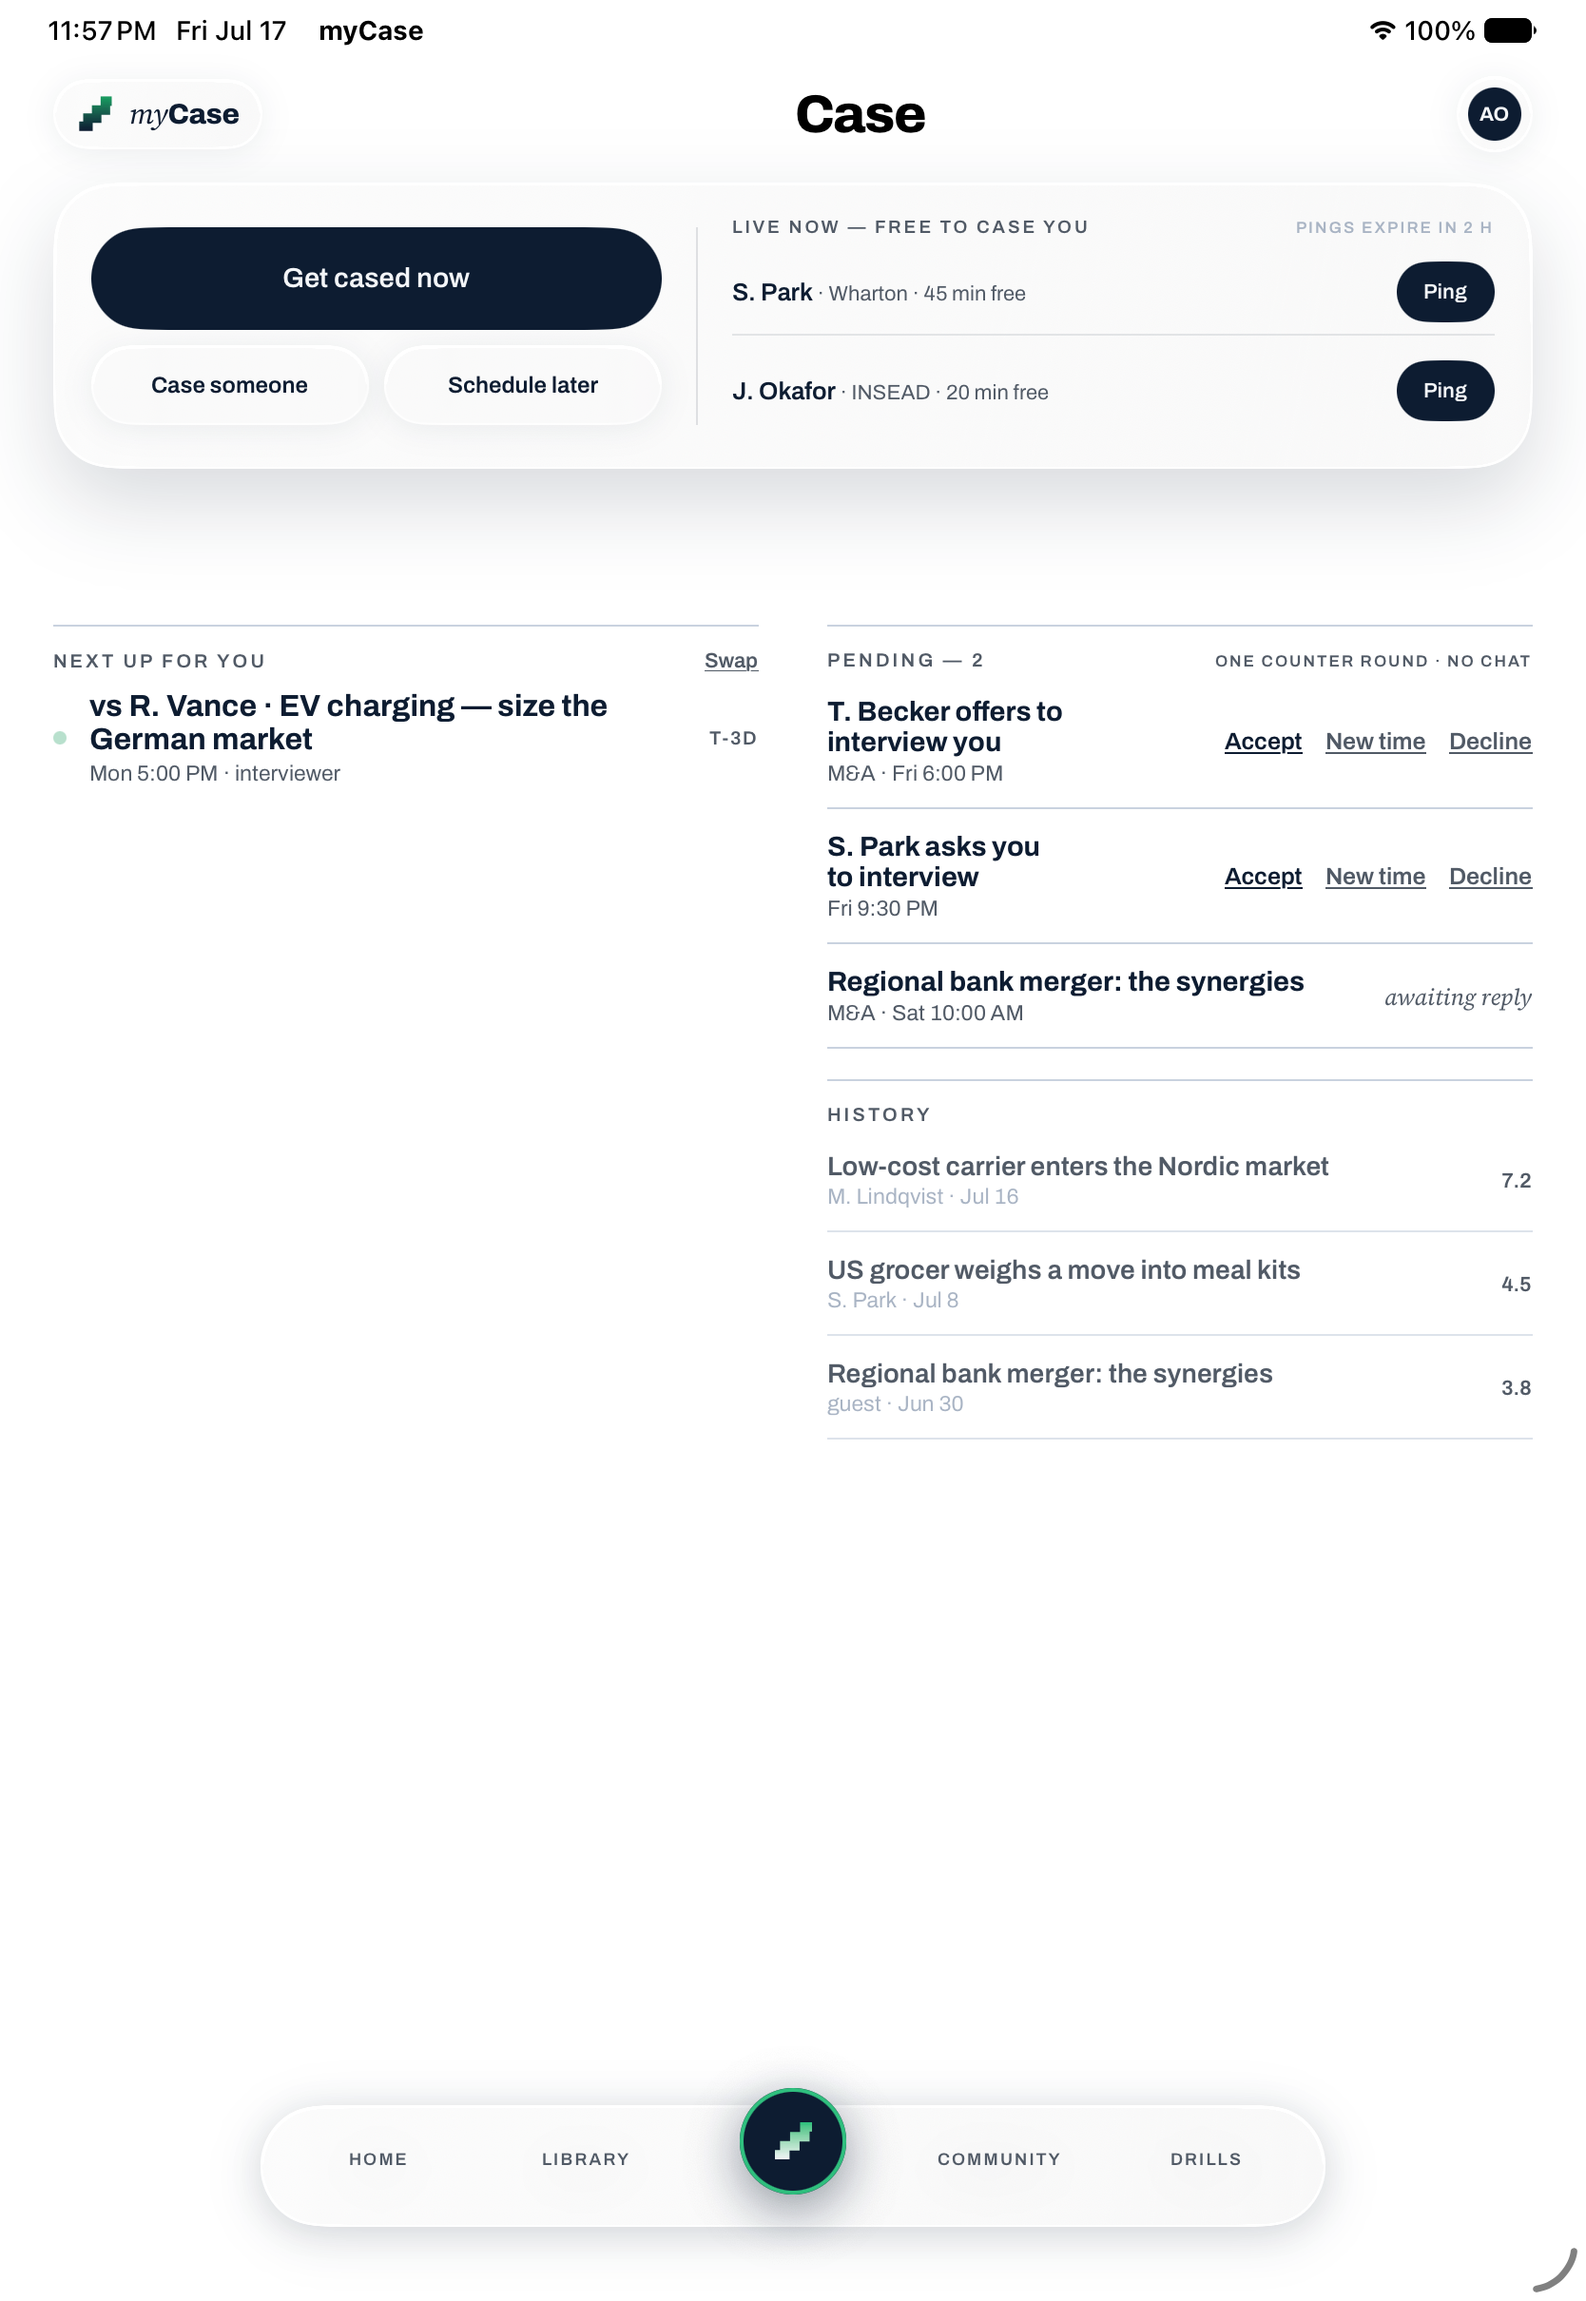
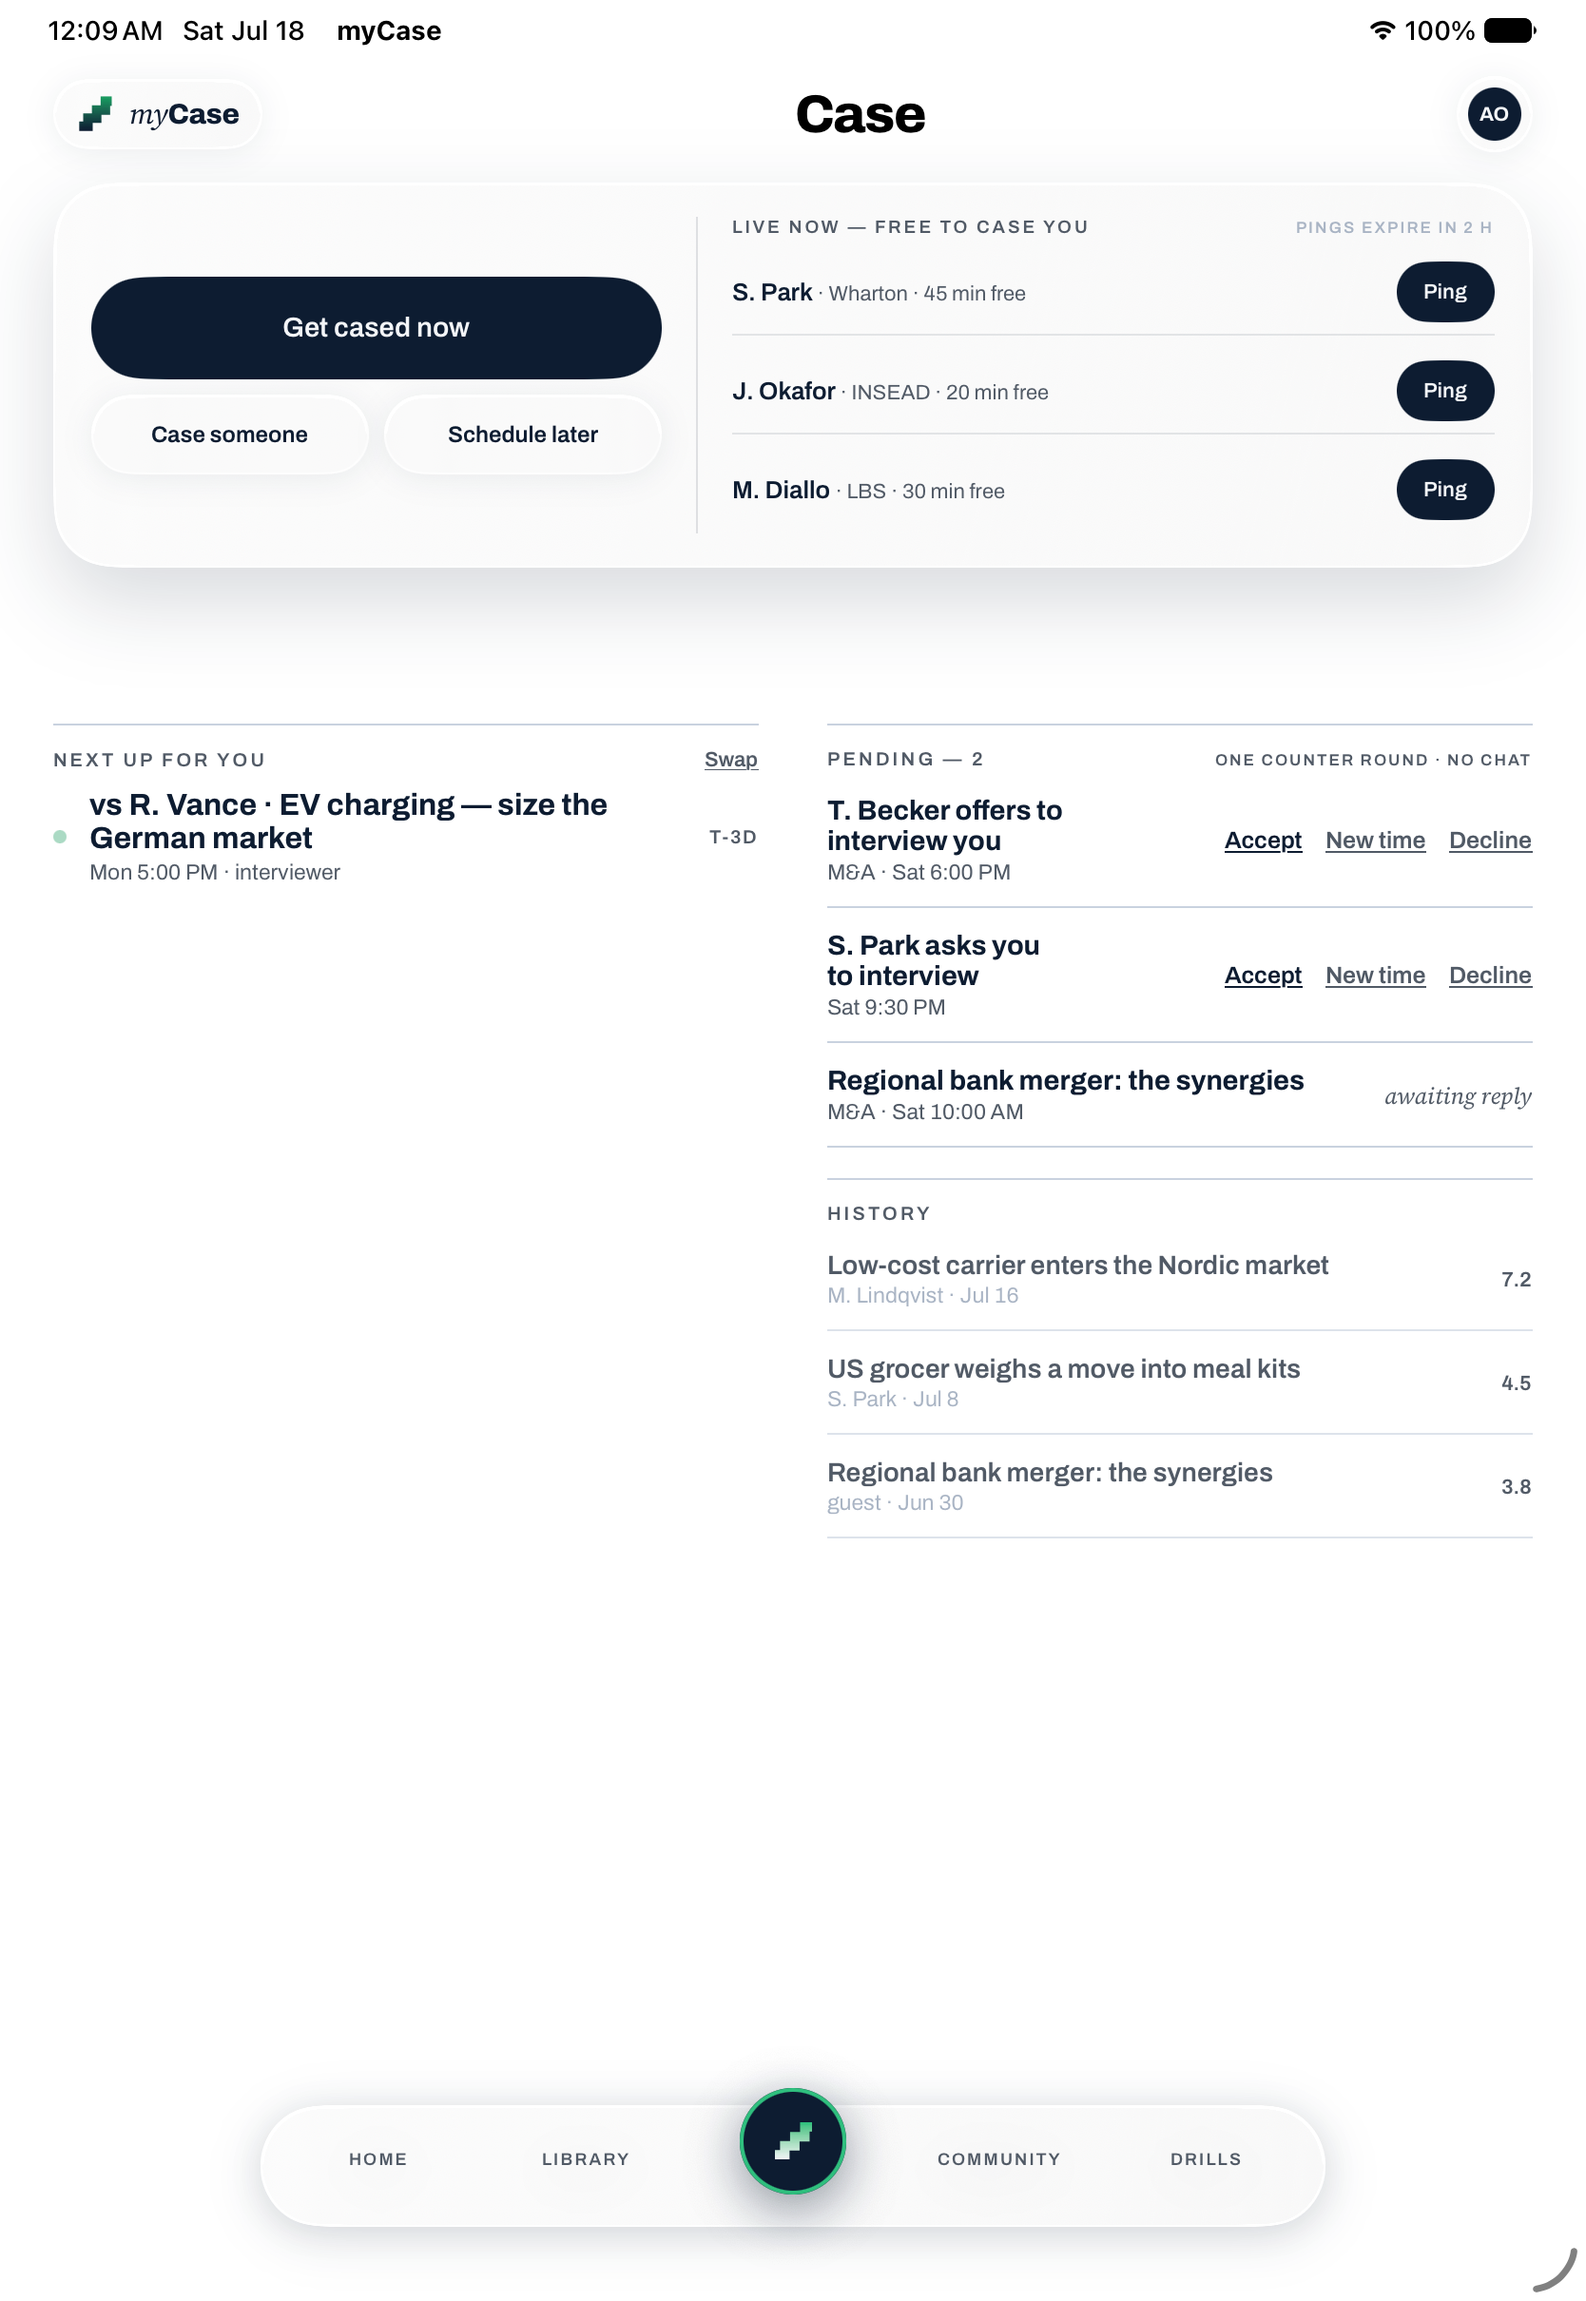
F3 close-out cleanup: schedule sheet scroll, tray divider, dead code, stale comment
- ScheduleComposerSheet: wrap card in a ScrollView so the "Pick a time"
  expanded DatePicker row can't clip against the fixed 560pt detent on
  shorter devices (T5-M3).
- CaseTabView tablet tray: divider now spans the taller of the verb column
  or LIVE-NOW board (fixedSize(vertical:true) on the tray HStack + a
  maxHeight:.infinity divider) instead of a hardcoded 104pt pin that fell
  short once the board grew past 2 rows (T6-M1). Added a third LIVE-NOW
  fixture user to exercise and verify the taller-board case; re-shot
  t6-tablet.png.
- Removed the dead CaseSheetPlaceholder shell now that all three verb-bar
  sheets are real, plus the stale comment referencing it (T5-M1).
- Fixed CaseSomeoneViewModel's protocol doc comment: pairClaim(token:) ->
  pairClaim(shortCode:) (T4-nit).

581 tests, 0 failures.

diff --git a/ios/CaseRoom/Views/CaseTabView.swift b/ios/CaseRoom/Views/CaseTabView.swift
@@ -24,8 +24,9 @@
 
 import SwiftUI
 
-// MARK: - The verb-bar sheet seam (T3/T4/T5 replace CaseSheetPlaceholder's
-// body per sheet — the enum + `.sheet(item:)` wiring below is the stable seam).
+// MARK: - The verb-bar sheet seam — the enum + `.sheet(item:)` wiring below
+// is the stable seam; each case's real sheet body lives in its own file
+// (GetCasedNowSheet / CaseSomeoneSheet / ScheduleComposerSheet).
 enum CaseSheet: Identifiable, Hashable {
     case getCased, caseSomeone, schedule
 
@@ -373,21 +374,25 @@ struct CaseTabView: View {
     // recapGateCard below stays glass too (tablet 1b shows both; canvas §5's
     // "one glass hero" rule is a Part-I/phone rule).
 
-    // A bare `Rectangle()` with only `.frame(width:)` has no bounded height,
-    // so SwiftUI treats it as vertically flexible — inside an HStack that
-    // makes the WHOLE row (and the glassPanel behind it) report as flexible
-    // too, and it balloons to fill the tab's entire available height. Pin the
-    // divider to the verb column's own fixed height (its tallest sibling —
-    // 54pt ink button + 8pt spacing + 42pt glass row = 104) so the row — and
-    // the tray card around it — hugs its real content height instead.
-    private static let tabletVerbColumnHeight: CGFloat = 54 + 8 + 42
-
+    // T6-M1 fix: the divider used to be pinned to the verb column's own fixed
+    // 104pt height, so it stopped short whenever the LIVE-NOW board (3+ free
+    // users) ran taller. A bare `Rectangle()` with only `.frame(maxHeight:
+    // .infinity)` has no bounded height on its own, so inside a plain HStack
+    // that makes the WHOLE row (and the glassPanel behind it) report as
+    // vertically flexible — it balloons to fill the tab's entire available
+    // height (the original bug this 104pt pin worked around). `.fixedSize
+    // (horizontal: false, vertical: true)` on the HStack fixes that: it makes
+    // the row report its children's own ideal (hugging) height rather than
+    // accepting an unbounded proposal, so the row — and the tray card around
+    // it — still hugs its real content height, while `maxHeight: .infinity`
+    // now resolves to the TALLER of the two columns instead of a hardcoded one.
     private var tabletTrayHero: some View {
         HStack(alignment: .center, spacing: 18) {
             tabletVerbColumn
-            Rectangle().fill(palette.ink.opacity(0.12)).frame(width: 1, height: Self.tabletVerbColumnHeight)
+            Rectangle().fill(palette.ink.opacity(0.12)).frame(maxWidth: 1, maxHeight: .infinity)
             tabletLiveNowBoard
         }
+        .fixedSize(horizontal: false, vertical: true)
         .padding(.horizontal, 20).padding(.vertical, 18)
         .glassPanel(cornerRadius: 32)
     }
@@ -895,33 +900,6 @@ private extension View {
             .opacity(appeared ? 1 : 0)
             .offset(y: appeared ? 0 : 16)
             .animation(DSMotion.riseCurve.delay(delay), value: appeared)
-    }
-}
-
-/// The verb-bar sheet placeholder shell — T3/T4/T5 replace the body per
-/// their brief; the enum + `.sheet(item:)` seam in CaseTabView stays stable.
-private struct CaseSheetPlaceholder: View {
-    let kind: CaseSheet
-    @Environment(\.dsPalette) private var palette
-    @Environment(\.dismiss) private var dismiss
-
-    var body: some View {
-        VStack(alignment: .leading, spacing: 16) {
-            Text(kind.title).dsText(.cardTitle).foregroundStyle(palette.ink)
-            // MARK: T3/T4/T5 fills this — the real sheet body per its brief.
-            Text("Coming soon.")
-                .dsText(.serif(13.5, italic: true)).foregroundStyle(palette.muted)
-            Button { dismiss() } label: {
-                Text("Close").dsText(.actionLabel).underline().foregroundStyle(palette.muted)
-            }
-            .buttonStyle(.plain)
-        }
-        .padding(24)
-        .frame(maxWidth: .infinity, alignment: .leading)
-        .glassSheet()
-        .padding(.horizontal, 14)
-        .presentationBackground(.clear)
-        .presentationDetents([.medium])
     }
 }
 

diff --git a/ios/CaseRoom/Views/ScheduleComposerSheet.swift b/ios/CaseRoom/Views/ScheduleComposerSheet.swift
@@ -26,21 +26,28 @@ struct ScheduleComposerSheet: View {
     }
 
     var body: some View {
-        card
-            .padding(.horizontal, 20).padding(.top, 22).padding(.bottom, 18)   // canvas 22px 20px 18px
-            .frame(maxWidth: .infinity, alignment: .leading)
-            .glassSheet(cornerRadius: 34)                                       // §1 sheet recipe, canvas radius 34
-            .padding(.horizontal, 10)                                          // canvas left/right:10
-            .frame(maxHeight: .infinity, alignment: .bottom)                   // bottom-anchored card
-            .dsToast(item: toastBinding)
-            .presentationDetents([.height(560)])
-            .presentationBackground(.clear)                                    // the glass IS the background
-            .presentationDragIndicator(.hidden)
-            .task { await viewModel.load() }
-            // A successful send toasts "Proposal sent", then dismisses.
-            .onChange(of: viewModel.sent) { _, newValue in
-                if newValue { dismiss() }
-            }
+        // ScrollView wrap (T5-M3 fix): the fixed 560pt detent clips on shorter
+        // devices once "Pick a time" reveals the inline DatePicker row — scroll
+        // the card's content instead of growing the detent, so the sheet still
+        // reads as the bottom-anchored glass card at any content height.
+        ScrollView {
+            card
+                .padding(.horizontal, 20).padding(.top, 22).padding(.bottom, 18)   // canvas 22px 20px 18px
+                .frame(maxWidth: .infinity, alignment: .leading)
+        }
+        .scrollIndicators(.hidden)
+        .glassSheet(cornerRadius: 34)                                       // §1 sheet recipe, canvas radius 34
+        .padding(.horizontal, 10)                                          // canvas left/right:10
+        .frame(maxHeight: .infinity, alignment: .bottom)                   // bottom-anchored card
+        .dsToast(item: toastBinding)
+        .presentationDetents([.height(560)])
+        .presentationBackground(.clear)                                    // the glass IS the background
+        .presentationDragIndicator(.hidden)
+        .task { await viewModel.load() }
+        // A successful send toasts "Proposal sent", then dismisses.
+        .onChange(of: viewModel.sent) { _, newValue in
+            if newValue { dismiss() }
+        }
     }
 
     // MARK: - Card content (flat)

diff --git a/ios/CaseRoom/State/CaseFixtures.swift b/ios/CaseRoom/State/CaseFixtures.swift
@@ -90,13 +90,17 @@ enum CaseFixtures {
     // free-right-now persona T3 already ships in GetCasedNowViewModel.fixture()
     // (S. Park · Wharton · 45 min free, J. Okafor · INSEAD · 20 min free) —
     // reused verbatim for continuity between the "Get cased now" sheet and the
-    // tray board sitting right next to it.
+    // tray board sitting right next to it. A third row (M. Diallo · LBS) is
+    // kept here deliberately (T6-M1 cleanup): a 3-row board is taller than the
+    // verb column, which is what exercises the divider spanning the taller of
+    // the two tray columns rather than the old hardcoded 104pt pin.
     static let liveNow: [FreeUser] = [
         FreeUser(userId: 501, name: "S. Park", freeUntil: Date().addingTimeInterval(45 * 60)),
         FreeUser(userId: 502, name: "J. Okafor", freeUntil: Date().addingTimeInterval(20 * 60)),
+        FreeUser(userId: 503, name: "M. Diallo", freeUntil: Date().addingTimeInterval(30 * 60)),
     ]
 
-    static let liveNowSchools: [Int: String] = [501: "Wharton", 502: "INSEAD"]
+    static let liveNowSchools: [Int: String] = [501: "Wharton", 502: "INSEAD", 503: "LBS"]
 
     private static func date(_ yyyyMMdd: String) -> Date {
         let formatter = DateFormatter()

diff --git a/ios/CaseRoom/State/CaseSomeoneViewModel.swift b/ios/CaseRoom/State/CaseSomeoneViewModel.swift
@@ -18,8 +18,8 @@ import Foundation
 import Observation
 
 // The slice of the API the Case-someone sheet needs. APIClient conforms
-// trivially — proposals()/sessions(scope:)/pairClaim(token:) all live on the
-// actor (see APIClient.swift). pairClaim is the shared claim path, recap-gate
+// trivially — proposals()/sessions(scope:)/pairClaim(shortCode:) all live on
+// the actor (see APIClient.swift). pairClaim is the shared claim path, recap-gate
 // wired; interviewing is never gated, but blockedByRecap is caught defensively.
 protocol CaseSomeoneService {
     func proposals() async throws -> [Proposal]
